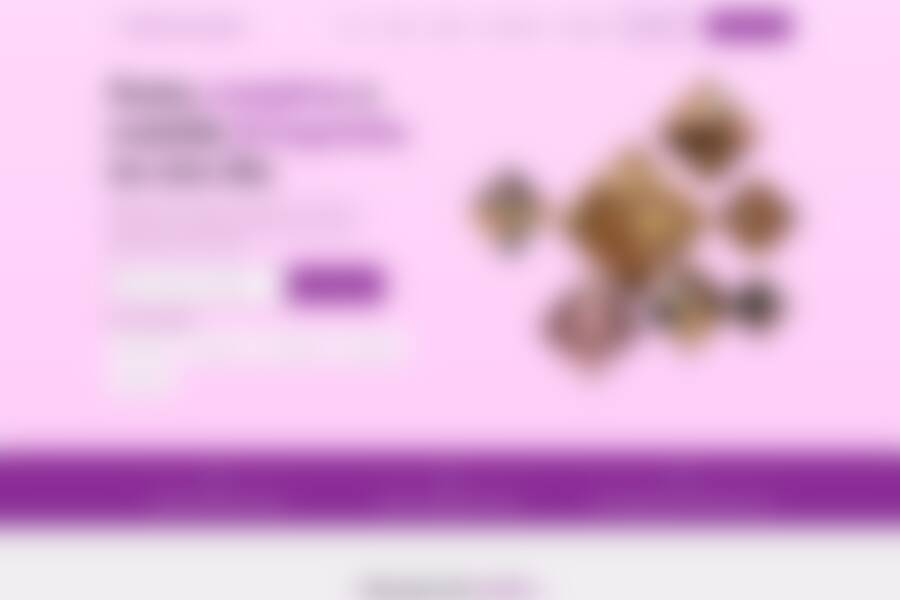
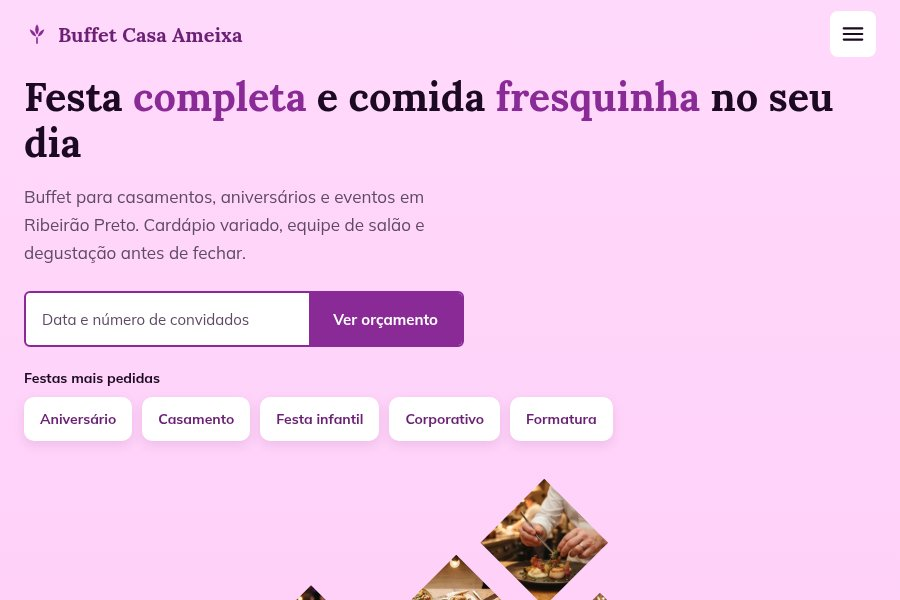
Casa Ameixa: carrossel com setas nos Pacotes + faixa newsletter 50% OFF (à risca do pin) + capa regerada

diff --git a/src/components/models/BuffetFold.tsx b/src/components/models/BuffetFold.tsx
@@ -53,6 +53,10 @@ export function BuffetFold({ client }: { client?: { name?: string; whatsapp?: st
   const [sc, setSc] = useState(false);
   useEffect(() => { const f = () => setSc(window.scrollY > 600); f(); window.addEventListener("scroll", f, { passive: true }); return () => window.removeEventListener("scroll", f); }, []);
   const mdRef = useRef<HTMLDivElement>(null);
+  const pgRef = useRef<HTMLDivElement>(null);
+  const scrollPg = (d: number) => pgRef.current?.scrollBy({ left: d * 300, behavior: "smooth" });
+  const [mail, setMail] = useState("");
+  const subNews = (e: { preventDefault(): void }) => { e.preventDefault(); window.open(`https://wa.me/${num}?text=${encodeURIComponent(`Oi! Quero o cupom de 50% OFF da newsletter da ${brand}${mail ? ` (meu e-mail: ${mail})` : ""}.`)}`, "_blank", "noopener"); };
   const lastFocus = useRef<HTMLElement | null>(null);
   useEffect(() => {
     if (!open) return;
@@ -117,8 +121,14 @@ export function BuffetFold({ client }: { client?: { name?: string; whatsapp?: st
         .bf h2{font-size:clamp(26px,3vw,34px);text-align:center;margin:0;font-weight:700}
         .bf h2 em{font-style:normal;color:${PU}}
         .bf .sub{font-family:'Mulish',sans-serif;text-align:center;font-size:14.5px;color:${MU};max-width:560px;margin:10px auto 0;line-height:1.55}
-        .bf .pg{display:grid;grid-template-columns:repeat(4,1fr);gap:20px;margin-top:70px}
-        .bf .pc{background:#fff;border-radius:12px;padding:0 14px 18px;text-align:center;box-shadow:0 8px 24px rgba(28,10,34,.07);display:flex;flex-direction:column;align-items:center}
+        .bf .pcar{position:relative}
+        .bf .pg{display:flex;gap:20px;margin-top:12px;padding:64px 6px 12px;overflow-x:auto;scroll-snap-type:x mandatory;scrollbar-width:none}
+        .bf .pg::-webkit-scrollbar{display:none}
+        .bf .arr{position:absolute;top:50%;transform:translateY(-50%);z-index:2;width:46px;height:46px;border-radius:50%;border:0;background:${PU};color:#fff;font-size:24px;line-height:1;cursor:pointer;display:grid;place-items:center;box-shadow:0 8px 20px rgba(28,10,34,.28)}
+        .bf .arr:hover{background:${PD}}
+        .bf .arr.l{left:-10px}
+        .bf .arr.r{right:-10px}
+        .bf .pc{flex:0 0 272px;scroll-snap-align:start;background:#fff;border-radius:12px;padding:0 14px 18px;text-align:center;box-shadow:0 8px 24px rgba(28,10,34,.07);display:flex;flex-direction:column;align-items:center}
         .bf .pc img{width:150px;height:150px;border-radius:50%;object-fit:cover;margin-top:-50px;border:4px solid #fff;box-shadow:0 6px 18px rgba(28,10,34,.15)}
         .bf .pc b{font-size:16px;margin-top:12px}.bf .pc small{font-family:'Mulish',sans-serif;font-size:13.5px;color:${MU};margin-top:4px}
         .bf .pc .pr{font-size:22px;font-weight:700;margin:8px 0 12px;color:${DK}}.bf .pc .pr span{font-family:'Mulish',sans-serif;font-size:13px;font-weight:600;color:${MU}}
@@ -146,6 +156,13 @@ export function BuffetFold({ client }: { client?: { name?: string; whatsapp?: st
         .bf .rc .st{color:${OR};letter-spacing:2px;font-size:15px}
         .bf .cta{background:#4a1c54;border-radius:12px;color:#fff;display:flex;align-items:center;justify-content:space-between;gap:24px;flex-wrap:wrap;padding:30px 34px;margin:70px 0 60px}
         .bf .cta h3{margin:0;font-size:26px}.bf .cta p{font-family:'Mulish',sans-serif;margin:6px 0 0;font-size:15px;color:#f1d9f5}
+        .bf .news{background:${DK};margin-top:80px}
+        .bf .news-in{display:grid;grid-template-columns:1fr auto;gap:34px;align-items:center;padding:52px 24px}
+        .bf .news h3{margin:0 0 8px;font-size:clamp(26px,3vw,36px);color:#fff;letter-spacing:.04em}
+        .bf .news p{font-family:'Mulish',sans-serif;font-size:15px;color:#e9d4f2;margin:0 0 18px;max-width:520px;line-height:1.6}
+        .bf .nform{display:flex;gap:10px;flex-wrap:wrap;max-width:520px}
+        .bf .nform input{flex:1;min-width:200px;padding:0 16px;min-height:52px;border-radius:6px;border:0;font-size:15px;font-family:'Mulish',sans-serif;color:${DK}}
+        .bf .nimg{width:190px;height:190px;border-radius:50%;object-fit:cover;border:6px solid ${PU};box-shadow:0 10px 28px rgba(0,0,0,.35)}
         .bf footer{background:#1c0a22;color:#e9d7ee;padding:44px 0 26px;border-radius:24px 24px 0 0;font-family:'Mulish',sans-serif}
         .bf .fr{display:flex;justify-content:space-between;gap:26px;flex-wrap:wrap;font-size:14.5px;line-height:1.8}
         .bf .fr nav{display:flex;gap:22px;flex-wrap:wrap;align-items:flex-start}.bf .fr nav a{cursor:pointer;color:#e9d7ee;padding:8px 0}
@@ -165,10 +182,11 @@ export function BuffetFold({ client }: { client?: { name?: string; whatsapp?: st
           .bf .links{display:none}.bf .burger{display:grid;place-items:center;margin-left:auto}.bf .nav{height:68px;gap:10px}.bf .navbtn{display:none}
           .bf .hg{grid-template-columns:1fr;padding:6px 0 60px}.bf .dia{margin:0 auto;max-width:380px}
           .bf .bg3{grid-template-columns:1fr;gap:18px}
-          .bf .sec{padding-top:56px}.bf .pg{grid-template-columns:1fr 1fr;gap:64px 14px}.bf .pc img{width:110px;height:110px;margin-top:-40px}
+          .bf .sec{padding-top:56px}.bf .pc{flex:0 0 74%}.bf .pc img{width:110px;height:110px;margin-top:-40px}.bf .arr{width:40px;height:40px}.bf .arr.l{left:0}.bf .arr.r{right:0}
           .bf .sg{grid-template-columns:1fr 1fr;gap:12px}.bf .how{grid-template-columns:1fr;gap:26px}.bf .hs{grid-template-columns:1fr}
           .bf .ban div{padding:22px 24px}.bf .ban b{font-size:26px}.bf .tiles{grid-template-columns:1fr}.bf .tiles button{min-height:130px;font-size:22px}
           .bf .rg{grid-template-columns:1fr}.bf .cta{padding:26px 22px;margin:50px 0 40px}
+          .bf .news{margin-top:56px}.bf .news-in{grid-template-columns:1fr;padding:40px 24px;text-align:center}.bf .news p{margin-left:auto;margin-right:auto}.bf .nform{justify-content:center;margin:0 auto}.bf .nimg{margin:6px auto 0;width:150px;height:150px}
           .bf .mob{display:block;background:#fff;border-radius:12px;margin:0 0 12px;box-shadow:0 8px 24px rgba(28,10,34,.15)}.bf .mob a{display:block;padding:15px 20px;font-family:'Mulish',sans-serif;font-size:15px;font-weight:700;cursor:pointer;border-top:1px solid ${LN}}.bf .mob a:first-child{border:0}
           .bf .md{padding:26px 20px}
         }
@@ -206,7 +224,10 @@ export function BuffetFold({ client }: { client?: { name?: string; whatsapp?: st
       <section className="sec" id="pacotes"><div className="wrap">
         <h2><Ar />Pacotes de <em>buffet</em><Al /></h2>
         <p className="sub">Quatro formatos prontos, todos com equipe, louça e reposição durante a festa.</p>
-        <div className="pg">
+        <div className="pcar">
+          <button type="button" className="arr l" aria-label="Pacotes anteriores" onClick={() => scrollPg(-1)}>‹</button>
+          <button type="button" className="arr r" aria-label="Próximos pacotes" onClick={() => scrollPg(1)}>›</button>
+          <div className="pg" ref={pgRef}>
           {PKGS.map((c) => (
             <div className="pc" key={c.k}>
               <img src={c.img} alt={c.k} loading="lazy" />
@@ -215,6 +236,7 @@ export function BuffetFold({ client }: { client?: { name?: string; whatsapp?: st
               <button type="button" className="btn sm" onClick={() => start()}>Pedir orçamento</button>
             </div>
           ))}
+          </div>
         </div>
       </div></section>
 
@@ -261,6 +283,18 @@ export function BuffetFold({ client }: { client?: { name?: string; whatsapp?: st
           <button type="button" className="btn" style={{ background: "#fff", color: PD, borderColor: "#fff" }} onClick={() => start()}>Pedir orçamento</button>
         </div>
       </div></section>
+
+      <div className="news"><div className="wrap news-in">
+        <div>
+          <h3>GANHE 50% OFF</h3>
+          <p>Deixe seu e-mail e receba o cupom de 50% de desconto para a primeira festa, além de novidades do cardápio da estação.</p>
+          <form className="nform" onSubmit={subNews}>
+            <input type="email" required value={mail} onChange={(e) => setMail(e.target.value)} placeholder="Seu melhor e-mail" aria-label="Seu e-mail" />
+            <button type="submit" className="btn">Assinar</button>
+          </form>
+        </div>
+        <img className="nimg" src="/bf-d2.webp" alt="Prato servido do buffet da casa" loading="lazy" />
+      </div></div>
 
       <footer><div className="wrap fr">
         <div><span style={{ fontFamily: "Lora,serif", fontWeight: 700, fontSize: 22, color: "#fff" }}>{brand}</span><div style={{ marginTop: 8 }}>Av. Presidente Vargas, 1250, {city}<br />Seg a sáb, 9h às 19h</div></div>
